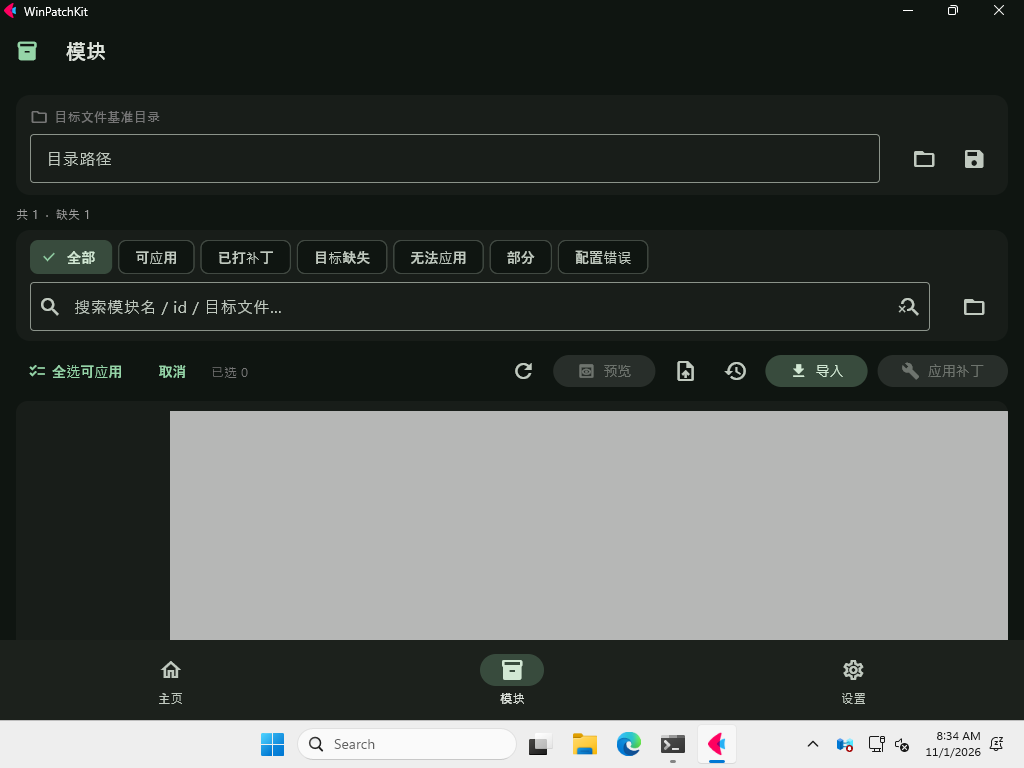
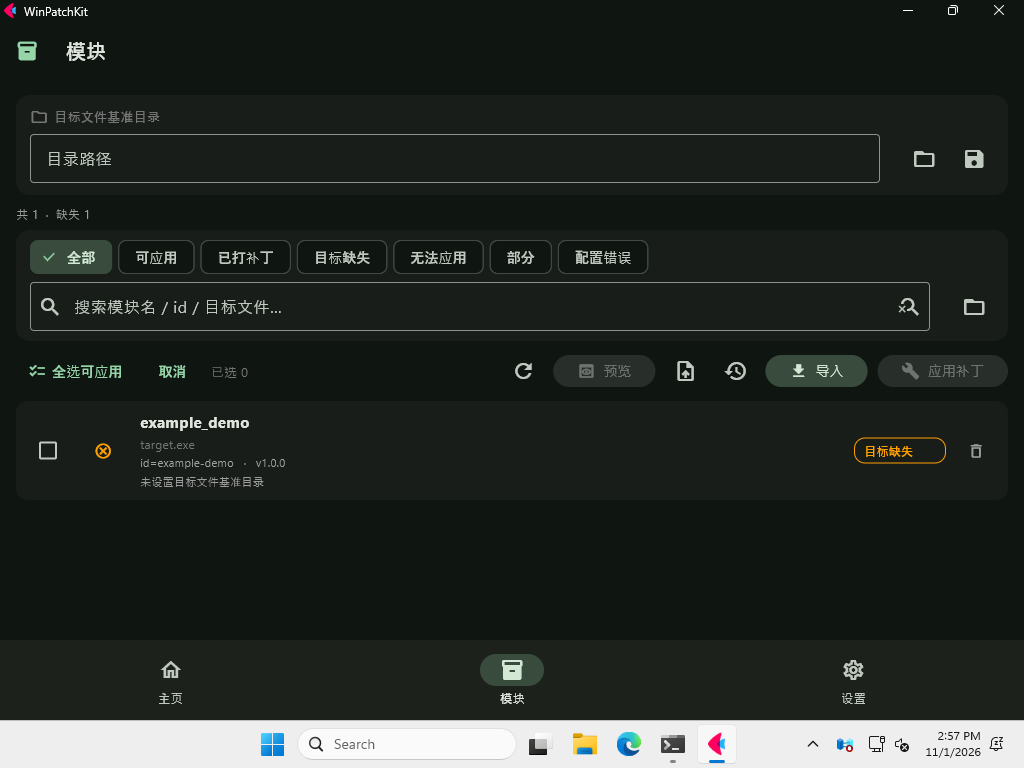
fix(module): 状态徽章文字真正居中（双 expand 弹性块）
上一版用 Row([badge], alignment=CENTER) 无效：Flet 1.0.5 的 Row 默认 hug
不撑满父宽，且无 MainAxisSize/Align 可强制撑满，CENTER 无剩余空间可用，
badge 仍贴 92 槽左侧。

改法定宽(92)容器内 Row([expand块, badge, expand块])：Row 含 flex 子项即撑满
92，两块平分剩余空间→badge 居中。不用 Container.alignment（本版本贪婪致白屏）。
同步修 probe：状态更新只替换 Row 中间 badge 子项(controls[1])，保留居中结构。

刷新 3 张 CI 预览截图。

diff --git a/gui/widgets/module_card.py b/gui/widgets/module_card.py
@@ -48,14 +48,16 @@ def make_card(info, on_delete, on_detail):
         line2 = f"id={info.id}   ·   v{info.version or '-'}"
 
     checkbox = ft.Checkbox(value=False, disabled=bool(info.parse_error))
-    # badge 居中：badge 本体纯 hug；外面套一个定宽(92)容器，容器 content 用
-    # Row 的 mainAxisAlignment=CENTER 居中。
-    # 不用 Container.alignment——官方文档明确：alignment 非 None 时 Container 会
-    # 贪婪撑满父约束，在本版本 Flet 里即使给了 width/height 仍会污染 Row 布局
-    # 导致整块塌陷（白屏）。Row 的 justifyContent 居中则无此副作用。
+    # badge 居中：badge 本体纯 hug；外面定宽(92)容器，内容用 Row 里两个
+    # expand 弹性块把 badge 夹在中间（Row 有 flex 子项就会撑满 92，两块平分
+    # 剩余空间 → badge 真正居中）。
+    # 不用 Container.alignment（官方文档：非 None 即贪婪撑满父约束，本版本会给
+    # height 仍污染 Row 布局致列表区白屏）；也不用 Row 的 alignment=CENTER
+    # （Flet 的 Row 默认 hug 不撑满，没有 MainAxisSize/Align 可强制撑满）。
     badge_box = ft.Container(
-        content=ft.Row([status_badge("pending")],
-                       alignment=ft.MainAxisAlignment.CENTER,
+        content=ft.Row([ft.Container(expand=True),
+                        status_badge("pending"),
+                        ft.Container(expand=True)],
                        vertical_alignment=ft.CrossAxisAlignment.CENTER),
         width=92)
     icon_box = ft.Container(content=status_icon("pending"), width=22)

diff --git a/gui/pages/module.py b/gui/pages/module.py
@@ -219,7 +219,9 @@ class ModulePage:
                 st = results.get(info.id)
                 status = st.status if st else "missing"
                 self.statuses[i] = status
-                badge_box.content = status_badge(status)
+                # badge_box.content 是 Row([弹性块, badge, 弹性块])，只替换中间
+                # 的 badge 子项，保留居中结构（不能整体替换 content，否则居中丢失）。
+                badge_box.content.controls[1] = status_badge(status)
                 detail_text.value = st.detail if st else "未知"
                 from ..widgets.module_card import status_icon
                 icon_box.content = status_icon(status)
